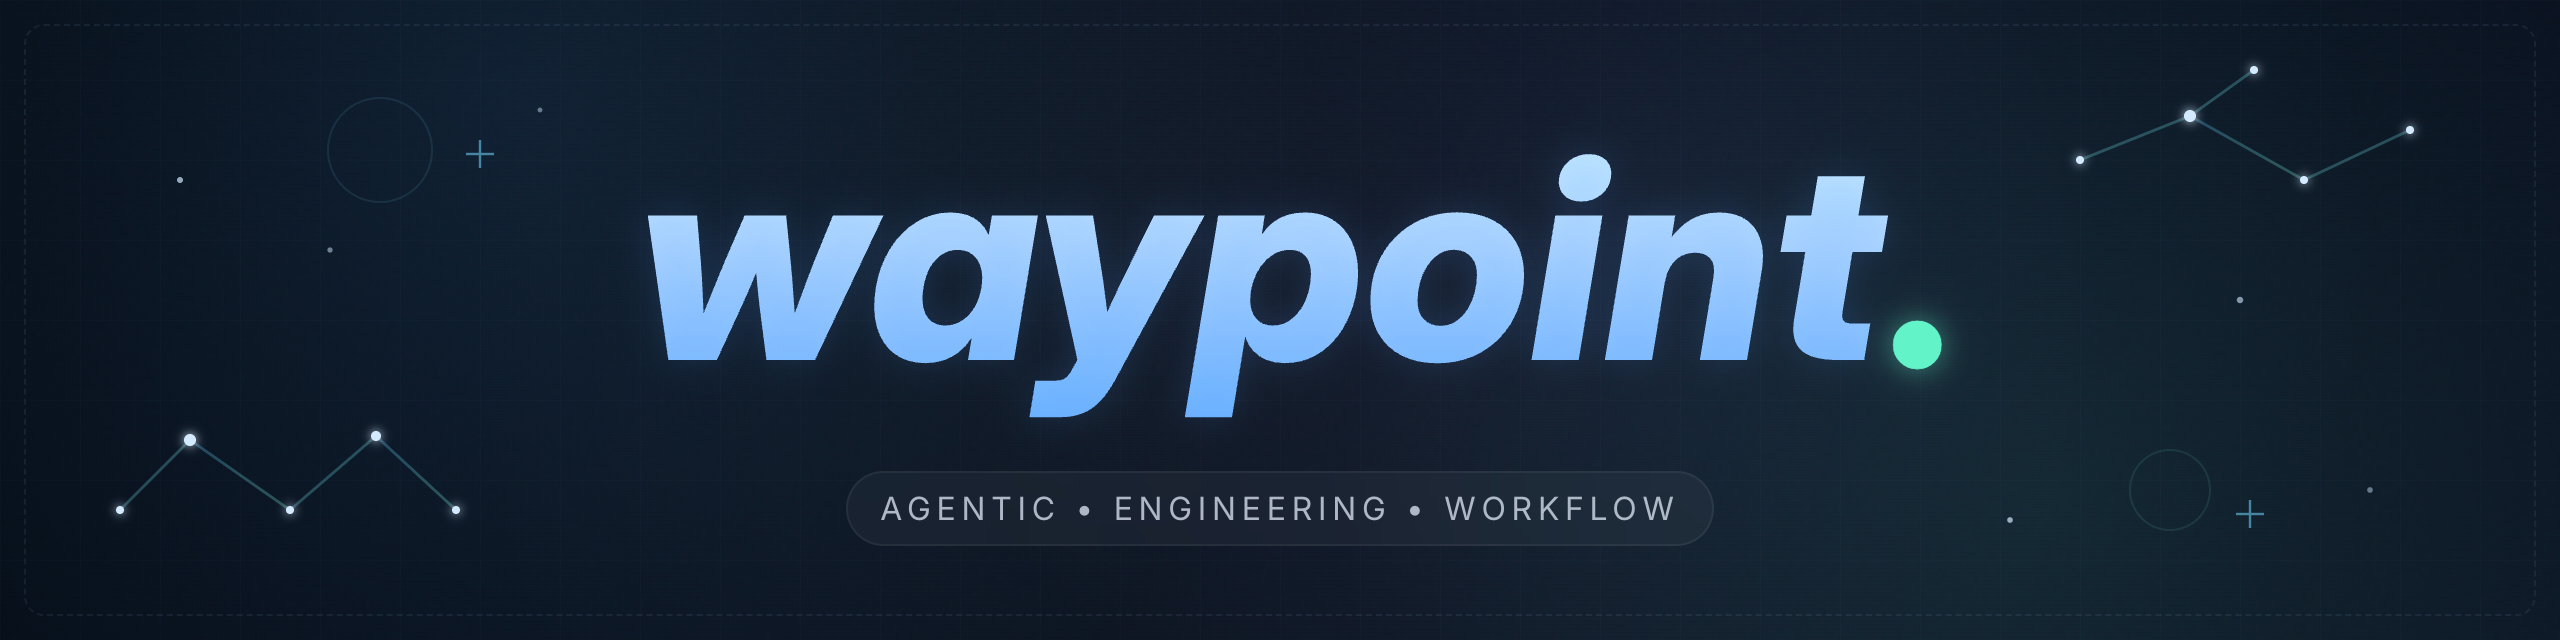
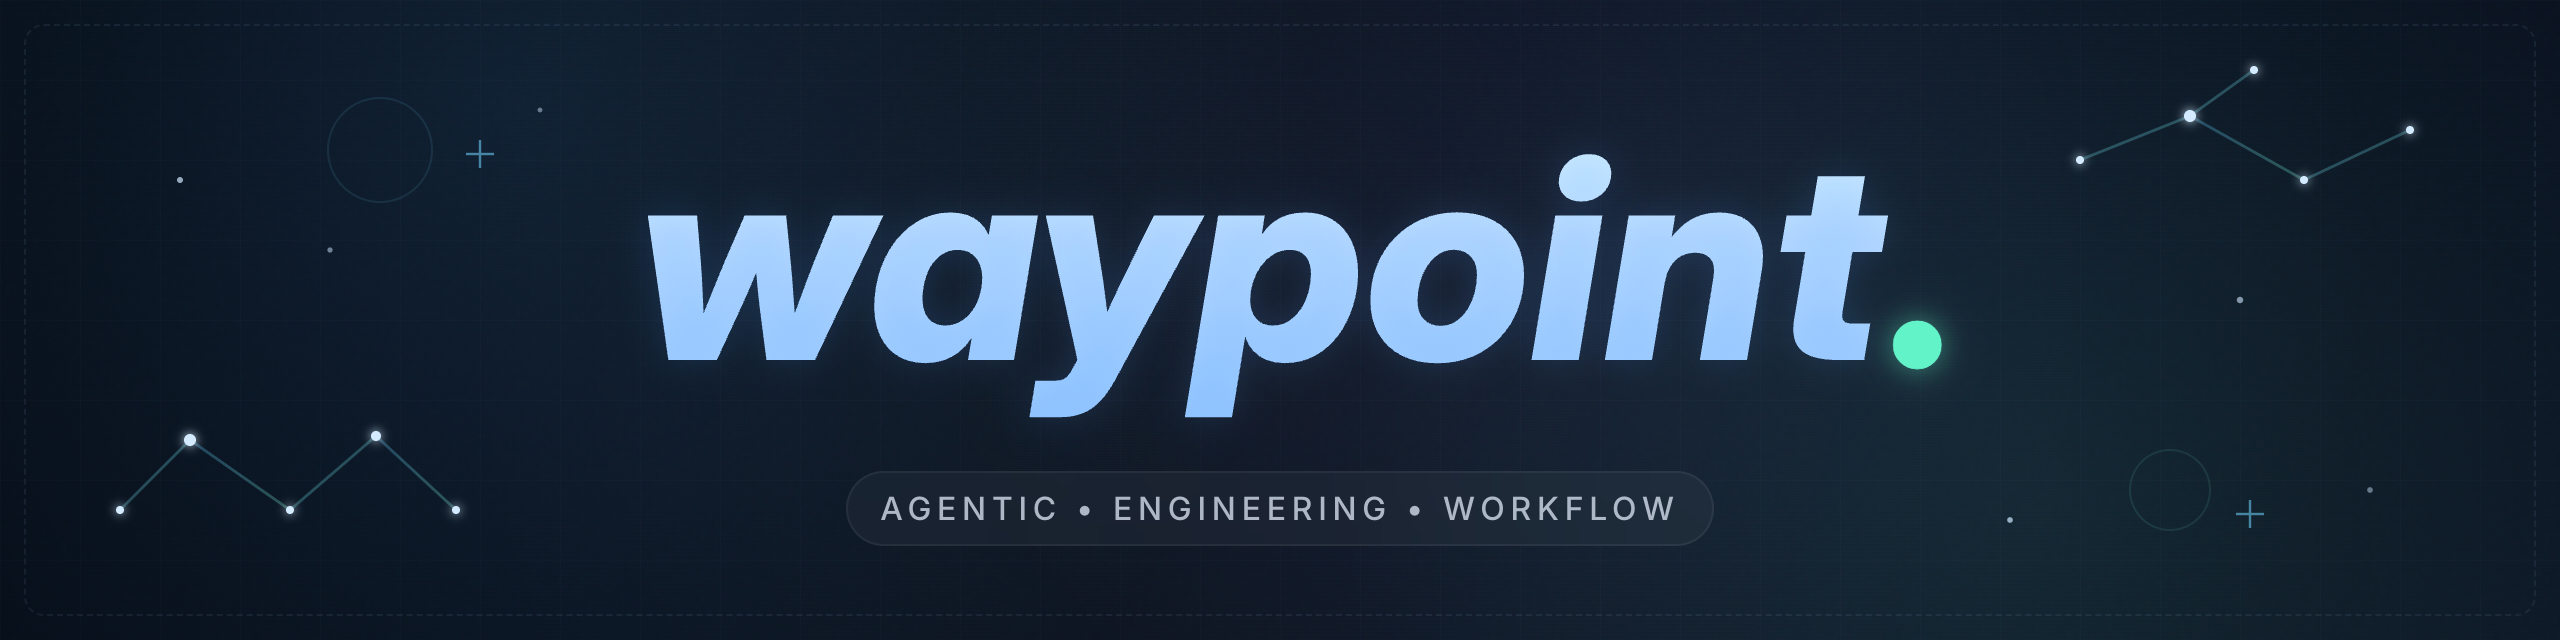
feat(waypoint): add artifact maintenance and progress/revision routing, make waypoint explicitly opt-in only

diff --git a/assets/banner.html b/assets/banner.html
@@ -106,9 +106,9 @@
             line-height: 1;
             background:
                 linear-gradient(180deg,
-                    #c5ebff 0%,
-                    #aed5ff 40%,
-                    #6ab0ff 100%);
+                    #cfeeff 0%,
+                    #b6d9ff 40%,
+                    #92c5ff 100%);
             -webkit-background-clip: text;
             -webkit-text-fill-color: transparent;
             text-shadow:
@@ -128,7 +128,7 @@
         }
 
         .pill {
-            font-weight: 400;
+            font-weight: 500;
             margin-top: 24px;
             padding: 8px 16px;
             border-radius: 999px;

diff --git a/README.md b/README.md
@@ -1,8 +1,15 @@
 <img width="1280" height="320" src="./assets/banner.webp" alt="waypoint banner">
 
+<div align="center">
+  
 # waypoint
 
-An opinionated workflow for agentic engineering. Guides you and your agents from problem discovery to production-ready code.
+An opinionated workflow for agentic engineering.  
+Guides you and your agents from problem discovery to production-ready code.
+
+</div>
+
+---
 
 ## 🚀 Getting Started
 
@@ -30,11 +37,13 @@ Every change moves through five phases. Each phase produces an artifact that dow
 4. `waypoint-review`: evaluates quality and strips away unnecessary complexity. Produces a *Review Report*.
 5. `waypoint-ship`: generates changelog, commit message, and PR description. Produces a *Release Package*.
 
-The `waypoint` skill serves as an entry point, routing requests to the appropriate phase based on the available artifacts, so you can take a break and resume work exactly where you left off.
+The `waypoint` skill serves as an entry point. It classifies each request as **Progress** (advance to the next incomplete phase) or **Revision** (change work that already has artifacts, including from a new chat), then routes to the appropriate phase.
 
 All skills follow the [Agent Skills](https://agentskills.io/home) format.
 
 ## 🌟 Best Practices
+
+*waypoint* runs only when you explicitly ask for it. Ordinary requests without that context use the normal agent flow.
 
 Start each phase in a **new chat** with a fresh context window. Pass the issue or ticket identifier when available alongside any additional information you like.
 
@@ -42,13 +51,14 @@ Start each phase in a **new chat** with a fresh context window. Pass the issue o
 /waypoint-align ABC-123 but ignore the last comment by john doe
 ```
 
-Or invoke the router and let it determine the next phase automatically:
+Or invoke the router and let it determine the correct phase automatically:
 
 ```
 /waypoint ABC-123
+/waypoint ABC-123 make the primary button blue
 ```
 
-All phases are **user-invocable only** so each phase starts deliberately, not opportunistically.
+Phases and the router are **user-invocable only**, so the workflow starts deliberately, not opportunistically.
 
 ### Recommended Tooling
 
@@ -73,6 +83,7 @@ All workflow outputs are stored in the project workspace:
 - `{ticket-slug}` — derived from the issue key (e.g. `ABC-123` → `abc-123`)
 - `{phase}` — `align`, `plan`, `build`, `review`, or `ship`
 - If an artifact for the same date already exists, it is updated in place
+- When working with *waypoint*, follow-ups and revisions will keep every affected artifact in sync with the newest agreed state
 
 Artifacts are the contract between phases and between agents.
 

diff --git a/skills/waypoint/SKILL.md b/skills/waypoint/SKILL.md
@@ -1,6 +1,6 @@
 ---
 name: waypoint
-description: Routes software engineering requests to the appropriate waypoint workflow phase.
+description: Routes software engineering requests to the appropriate waypoint workflow phase, including revisions when waypoint artifacts already exist. Use only when the user explicitly invokes waypoint or asks to use the waypoint workflow.
 ---
 
 # Waypoint
@@ -22,14 +22,22 @@ The workflow consists of five actions that each produce an artifact:
 ## Process
 
 1. Determine the furthest completed phase from the available information.
-2. Select the earliest incomplete phase.
-3. Explain the transition.
+2. Classify the request:
+   - **Progress**: The user is advancing the workflow to the next incomplete phase.
+   - **Revision**: The user is changing requirements, design or implementation for work that already has waypoint artifacts (including a new chat).
+3. If **Progress**, select the earliest incomplete phase.
+4. If **Revision**, select the furthest completed phase that owns the requested change.
+5. Explain the transition.
+6. Follow the selected phase skill. Apply waypoints `util-artifact` skill so affected artifacts stay in sync.
 
 ---
 
 ## Rules
 
-- Route to the earliest phase whose required artifact is unavailable.
+- Apply this workflow only when the user explicitly requested waypoint.
+- Route Progress requests to the earliest phase whose required artifact is unavailable.
+- Route Revision requests back into the relevant completed phase.
+- After Revision work, update every affected artifact using waypoints `util-artifact` skill.
 - A phase may be skipped only if the user provides equivalent inputs for the next phase.
 - Do not perform work that belongs to another phase.
 - Do not invent missing artifacts.

diff --git a/CHANGELOG.md b/CHANGELOG.md
@@ -5,6 +5,20 @@ All notable changes to this project will be documented in this file.
 The format is based on [Keep a Changelog](https://keepachangelog.com/en/1.1.0/),
 and this project adheres to [Semantic Versioning](https://semver.org/spec/v2.0.0.html).
 
+## [1.1.0] - 2026-07-26
+
+### Added
+
+- Artifact maintenance in `util-artifact` so follow-ups and revisions keep every affected artifact in sync, including new chats
+- Progress vs Revision routing in the `waypoint` entry skill, so changes to existing work can reopen the owning phase
+- Phase skills now require updating affected artifacts when work continues after the phase artifact exists
+
+### Changed
+
+- `waypoint` is documented and described as explicit opt-in only; ordinary requests without that context use the normal agent flow
+- README covers Progress/Revision routing, opt-in usage, and living artifact sync
+- Minor banner color and weight tweaks (`assets/banner.html`, `assets/banner.webp`)
+
 ## [1.0.1] - 2026-07-15
 
 ### Changed
@@ -36,5 +50,6 @@ Initial release of *waypoint*, an opinionated workflow for agentic engineering.
 - Repository banner assets (`assets/banner.html`, `assets/banner.webp`)
 - MIT License
 
+[1.1.0]: https://github.com/m-borgmann/waypoint/releases/tag/v1.1.0
 [1.0.1]: https://github.com/m-borgmann/waypoint/releases/tag/v1.0.1
 [1.0.0]: https://github.com/m-borgmann/waypoint/releases/tag/v1.0.0

diff --git a/skills/waypoint/util-artifact/SKILL.md b/skills/waypoint/util-artifact/SKILL.md
@@ -1,6 +1,6 @@
 ---
 name: util-artifact
-description: Defines shared guidelines for workflow artifacts.
+description: Defines shared guidelines for creating, validating, and updating waypoint workflow artifacts. Use only when already executing a waypoint phase or when the user explicitly asked to use waypoint.
 ---
 
 # Util Artifact
@@ -19,8 +19,16 @@ These guidelines apply to every artifact of the *waypoint* workflow.
 ### File Creation
 
 - Create any missing directories.
-- If an artifact already exists for the same date, update its content to reflect the newest agreed upon state.
+- If an artifact already exists for the same date, update its content to reflect the newest state.
 - The artifact must contain only the phase output in Markdown.
+
+---
+
+## Artifact Maintenance
+
+- Whenever code or decisions change for a ticket that already has waypoint artifacts (including a new chat or follow-up outside the original phase session), update every affected artifact to match the newest state.
+- Affected artifacts include the current phase artifact and any upstream or downstream artifacts invalidated by the change.
+- Code and artifacts must always stay in sync.
 
 ---
 

diff --git a/skills/waypoint/phase-align/SKILL.md b/skills/waypoint/phase-align/SKILL.md
@@ -20,7 +20,7 @@ disable-model-invocation: true
    - Provide multiple choices.
    - Group related questions.
    - Number each question.
-   - If you have access to a question tool, use it.
+   - If you have access to an interactive question tool like AskQuestions, use it. Otherwise fallback to chat.
 4. If clarification is required, stop and wait for user input.
    - If answers by the user surface new ambiguities, ask follow-up questions.
 5. Once the requirements are clear, produce an **Alignment Brief** using waypoints `util-artifact` skill.
@@ -56,6 +56,7 @@ All stated limitations (technical, functional, business, or environmental).
 
 - Focus only on requirements, not implementation details.
 - Explicitly state assumptions. If anything is unclear, ask before proceeding.
+- When this phase's artifact exists and the user continues to work on it in some way, always update affected artifacts using waypoints `util-artifact` skill.
 - Do not propose implementation details, architecture or code.
 - Do not write any code.
 

diff --git a/skills/waypoint/phase-build/SKILL.md b/skills/waypoint/phase-build/SKILL.md
@@ -53,6 +53,7 @@ Any necessary deviations from the Implementation Plan, including justification.
 - Match existing code style, naming conventions and comment language.
 - Verify each task before proceeding.
 - If you encounter dead code, debug logs, or dumps, explicitly flag them. Do not remove them without user confirmation.
+- When this phase's artifact exists and the user continues to work on it in some way, always update affected artifacts using waypoints `util-artifact` skill.
 - Do not revisit product or architectural decisions.
 - Do not make incidental improvements, refactor unrelated code or expand the scope in any way.
 

diff --git a/skills/waypoint/phase-review/SKILL.md b/skills/waypoint/phase-review/SKILL.md
@@ -68,6 +68,7 @@ Whether the implementation is:
 
 - Prefer the simplest implementation that correctly satisfies the requirements.
 - Question any additional changes that do not clearly contribute to the requested behavior.
+- When this phase's artifact exists and the user continues to work on it in some way, always update affected artifacts using waypoints `util-artifact` skill.
 - Do not implement fixes or expand the scope in any way beyond the stated requirements.
 - Do not report speculative issues. Assume the implementation is acceptable unless clear evidence to the contrary.
 

diff --git a/skills/waypoint/phase-plan/SKILL.md b/skills/waypoint/phase-plan/SKILL.md
@@ -60,6 +60,7 @@ Technical risks or constraints that could affect implementation, their impact an
 
 - Prefer extending existing architecture and patterns over introducing new ones.
 - Favor simple, incremental changes.
+- When this phase's artifact exists and the user continues to work on it in some way, always update affected artifacts using waypoints `util-artifact` skill.
 - Do not write or modify code.
 - Do not revisit or question established decisions of the Alignment Brief.
 

diff --git a/skills/waypoint/phase-ship/SKILL.md b/skills/waypoint/phase-ship/SKILL.md
@@ -62,6 +62,7 @@ The impact the change has on the current semantic version.
 ## Rules
 
 - Communicate clearly and directly for human readers and maintainers.
+- When this phase's artifact exists and the user continues to work on it in some way, always update affected artifacts using waypoints `util-artifact` skill.
 - Do not infer, embellish, or introduce information that is not present upstream artifacts.
 
 ---
